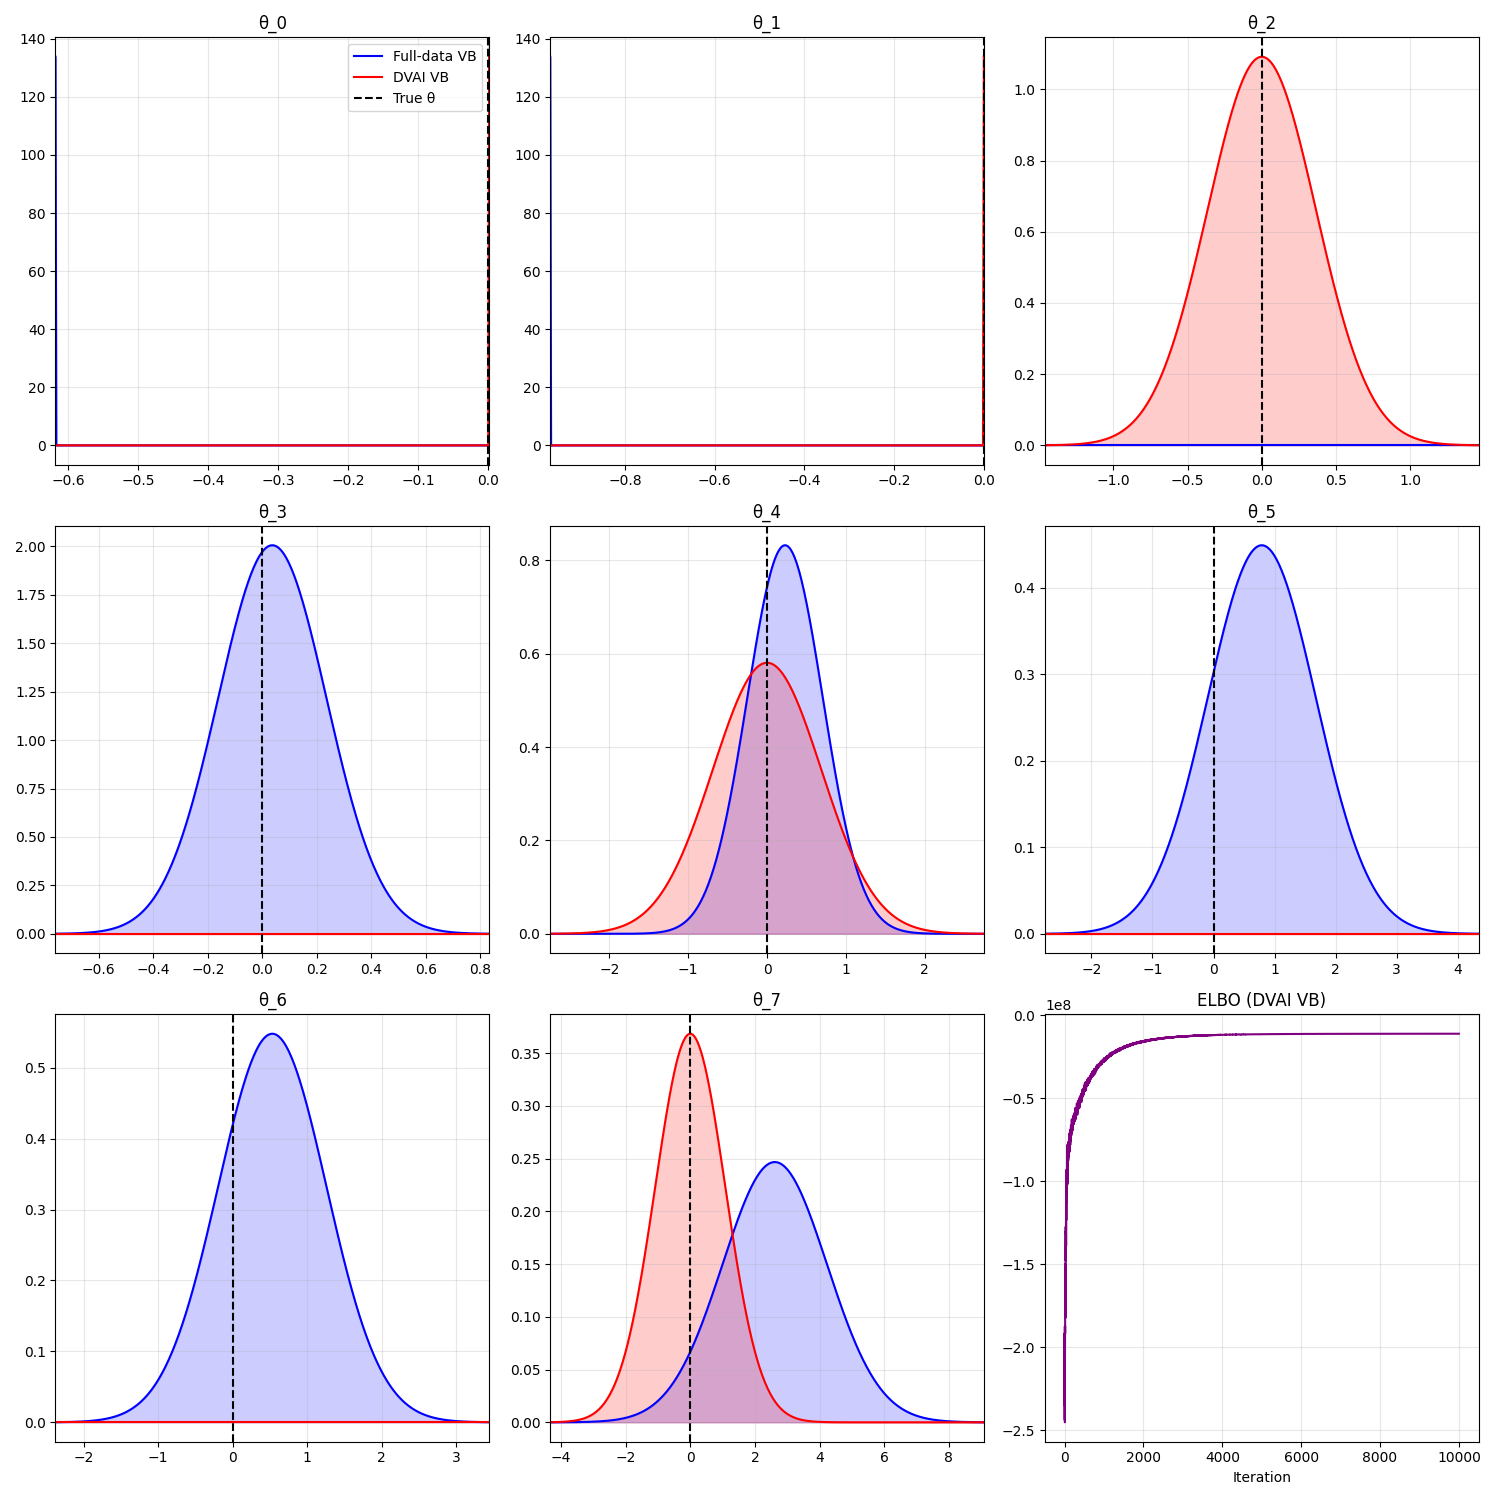
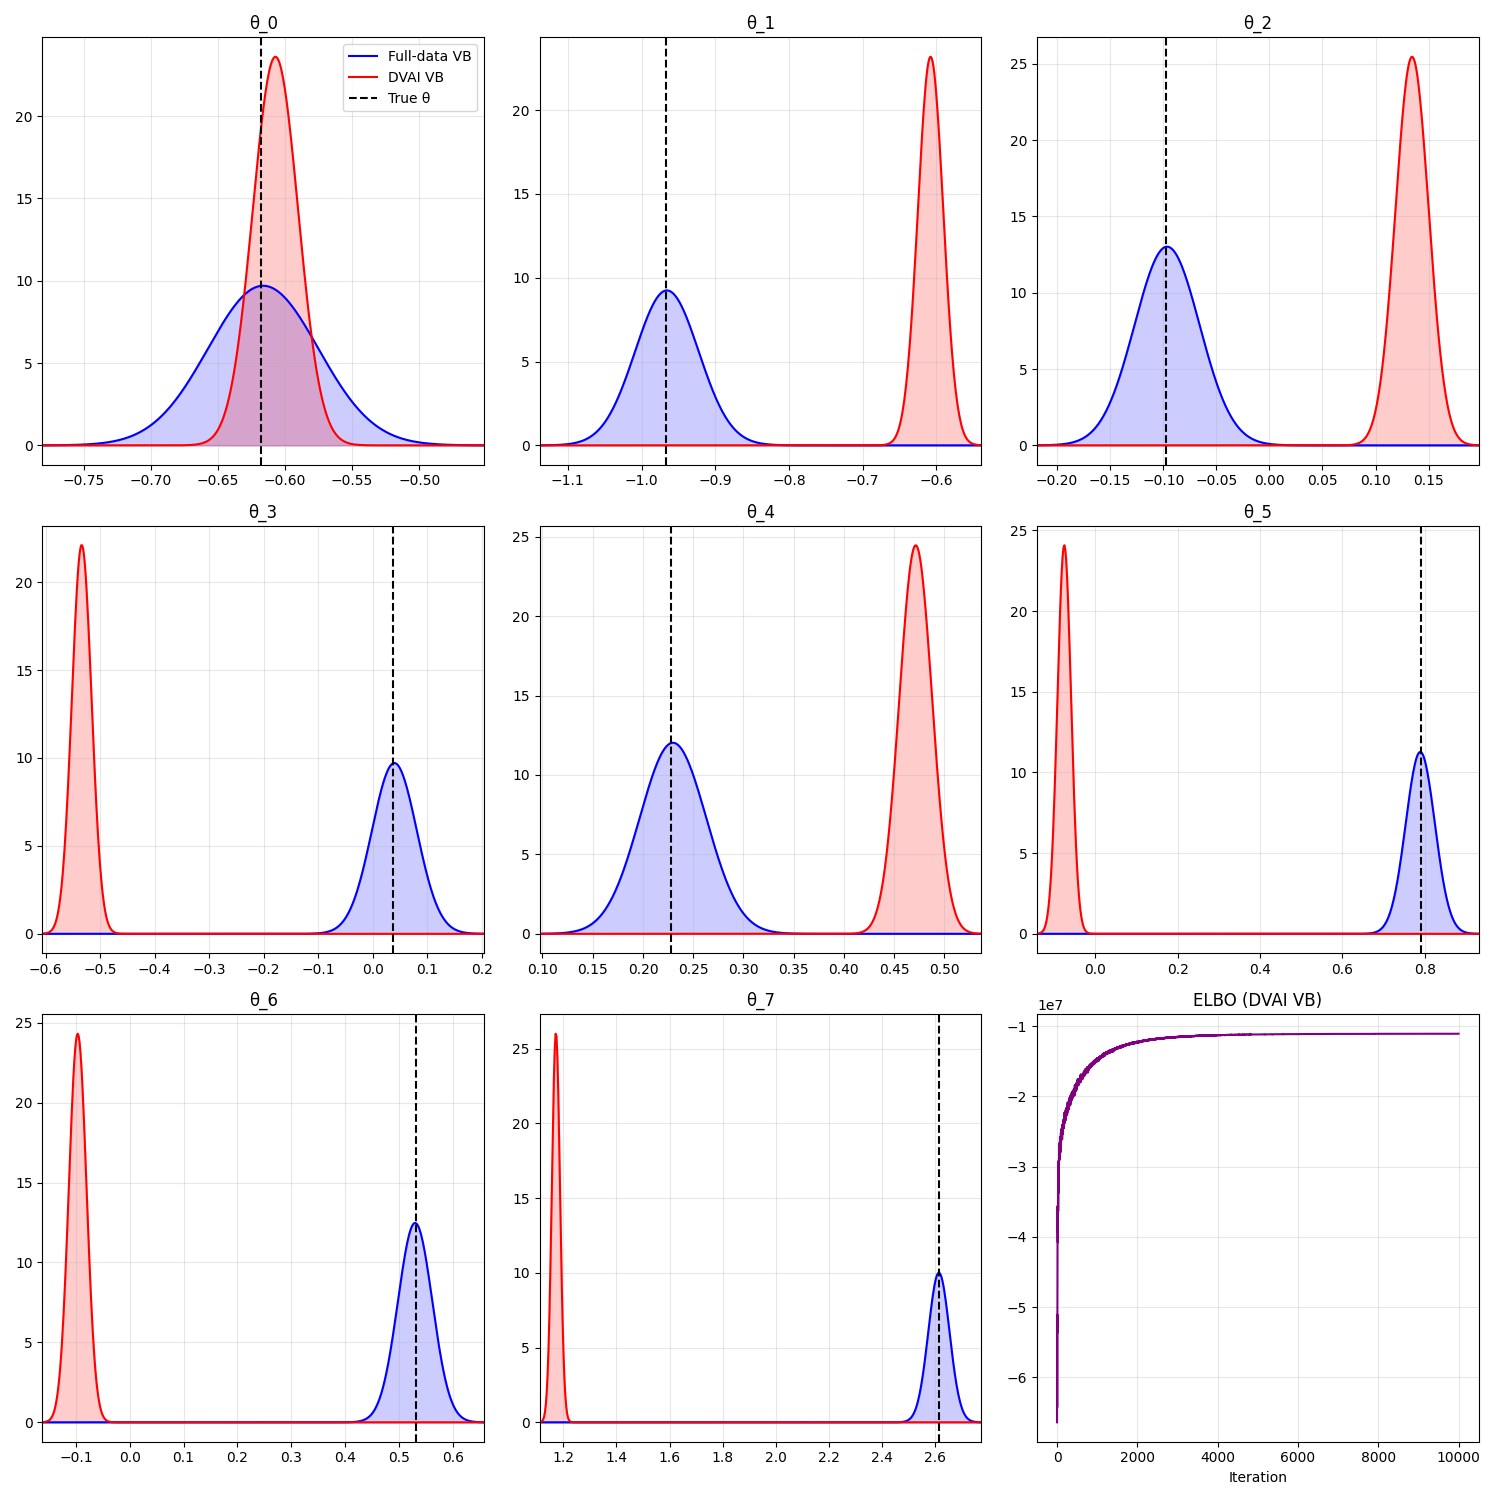
first commit

diff --git a/main.py b/main.py
@@ -18,7 +18,7 @@ from tasks.linear_regression import BayesianLinearRegression
 # VB: FullCov Gaussian VB
 from vb.fullcov_gvb import FullCovGaussianVB
 
-# 可视化（使用你原来的版本，不改）
+# 可视化
 from visualization.plot_posteriors import plot_posterior_dvai
 
 # 扩散填补器
@@ -51,14 +51,14 @@ def main():
         X_t_full,
         y_t_full,
         noise_var=data_config.noise_std ** 2,
-        prior_var=1.0,
+        prior_var=1.0,      # 基线：N(0, I) 先验
     )
 
     vb_full = FullCovGaussianVB(dim=D, cfg=fullcov_vb_config, device=device)
     res_full = vb_full.fit(model_full)
 
-    mu_full = res_full["mu"]
-    cov_full = res_full["cov"]
+    mu_full = res_full["mu"]   # np[D]
+    cov_full = res_full["cov"] # np[D,D]
 
     # ======================
     # 3. 生成缺失 + 均值填补，得到 t=0 的 X_imp
@@ -68,7 +68,7 @@ def main():
     X_imp_current = X_imp0.copy()   # t=0 的填补数据
 
     # ======================
-    # 4. 初始化扩散填补器（后续 warm-start）
+    # 4. 初始化扩散填补器 + 变分先验
     # ======================
     imputer = SimpleDiffusionImputer(
         dim_x=D,
@@ -78,7 +78,13 @@ def main():
         device=device,
     )
 
+    # DVAI 第 0 轮先验：N(0, I)
+    prior_mean_t = torch.zeros(D, dtype=torch.float32, device=device)
+    prior_prec_t = torch.eye(D, dtype=torch.float32, device=device)
+
     mu_prev = None
+    cov_prev = None
+
     print(f"[DVAI] 外层迭代 K = {dvai_config.max_outer_iter}")
     ensure_dir("results")
 
@@ -88,7 +94,7 @@ def main():
     for t in range(dvai_config.max_outer_iter + 1):
         print(f"\n========== DVAI 迭代 t = {t} ==========")
 
-        # 5.1 当前填补数据上做 VB
+        # 5.1 当前填补数据上做 VB（使用动态先验）
         X_t = torch.tensor(X_imp_current, dtype=torch.float32, device=device)
         y_t = torch.tensor(y, dtype=torch.float32, device=device)
 
@@ -96,30 +102,41 @@ def main():
             X_t,
             y_t,
             noise_var=data_config.noise_std ** 2,
-            prior_var=1.0,
+            # 关键：上一轮后验作为这一轮先验
+            prior_mean=prior_mean_t,
+            prior_prec=prior_prec_t,
         )
 
         vb_t = FullCovGaussianVB(dim=D, cfg=fullcov_vb_config, device=device)
+
+        # （可选）用上一轮的 q(θ) warm-start 当前轮的变分参数
+        if mu_prev is not None and cov_prev is not None:
+            vb_t.mu.data = torch.tensor(mu_prev, dtype=torch.float32, device=device)
+            cov_prev_t = torch.tensor(cov_prev, dtype=torch.float32, device=device)
+            jitter_ws = 1e-6 * torch.eye(D, device=device)
+            L_init = torch.linalg.cholesky(cov_prev_t + jitter_ws)
+            vb_t.L_unconstrained.data = L_init
+
         res_vb_t = vb_t.fit(model_t)
 
-        mu_t = res_vb_t["mu"]
-        cov_t = res_vb_t["cov"]
+        mu_t = res_vb_t["mu"]           # np[D]
+        cov_t = res_vb_t["cov"]         # np[D,D]
         elbo_t = res_vb_t["elbo_history"]
 
-        # 5.2 可视化（沿用你原来的函数签名）
+        # 5.2 可视化 —— 用关键字参数避免顺序错误
         fig_path = f"results/posterior_dvai_iter{t}.png"
         plot_posterior_dvai(
-            theta_true,
-            mu_full,
-            cov_full,
-            mu_t,
-            cov_t,
-            elbo_t,
-            fig_path,
+            mu_full_vb=mu_full,
+            cov_full_vb=cov_full,
+            mu_dvai=mu_t,
+            cov_dvai=cov_t,
+            theta_true=theta_true,
+            elbo_history=elbo_t,
+            save_path=fig_path,
         )
         print(f"[Viz] t={t} 图已保存: {fig_path}")
 
-        # 5.3 收敛检查
+        # 5.3 收敛检查（基于参数均值）
         if mu_prev is not None:
             delta = np.linalg.norm(mu_t - mu_prev)
             print(f"[Check] ||mu(t)-mu(t-1)|| = {delta:.6f}")
@@ -127,7 +144,15 @@ def main():
                 print(">>> DVAI 收敛，停止迭代")
                 break
 
+        # 更新“上一轮后验”
         mu_prev = mu_t.copy()
+        cov_prev = cov_t.copy()
+
+        # 更新下一轮的先验：N(mu_t, cov_t)
+        prior_mean_t = torch.tensor(mu_t, dtype=torch.float32, device=device)
+        cov_torch = torch.tensor(cov_t, dtype=torch.float32, device=device)
+        jitter = 1e-6 * torch.eye(D, device=device)
+        prior_prec_t = torch.linalg.inv(cov_torch + jitter)
 
         # 最后一轮不再训练扩散 & 填补
         if t == dvai_config.max_outer_iter:

diff --git a/models/diffusion_imputer.py b/models/diffusion_imputer.py
@@ -4,7 +4,7 @@ import torch
 import torch.nn as nn
 
 from .diffusion_model import MLPDiffusion, Precond, EDMLoss
-from .diffusion_utils import impute_mask   # ⭐ 关键改动：从 utils 导入
+from .diffusion_utils import impute_mask   # 混合采样填补
 
 # ----------------------------------------------------------
 # 简化版 DVAI 用扩散填补器（带标准化 & 数值保护）
@@ -106,7 +106,7 @@ class SimpleDiffusionImputer:
                 dim=D,
                 num_steps=self.num_steps,
                 device=self.device,
-                N_inner=5,   # 仍然使用你之前设定的 inner 步数
+                N_inner=5,
             )
             samples.append(Z_j)
 
